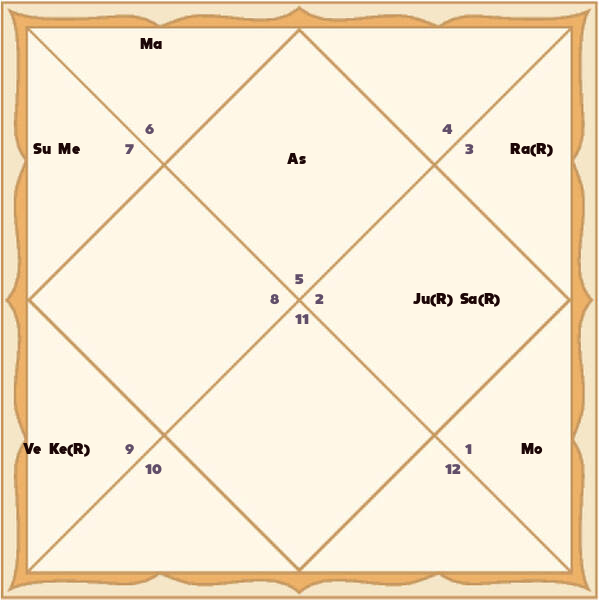
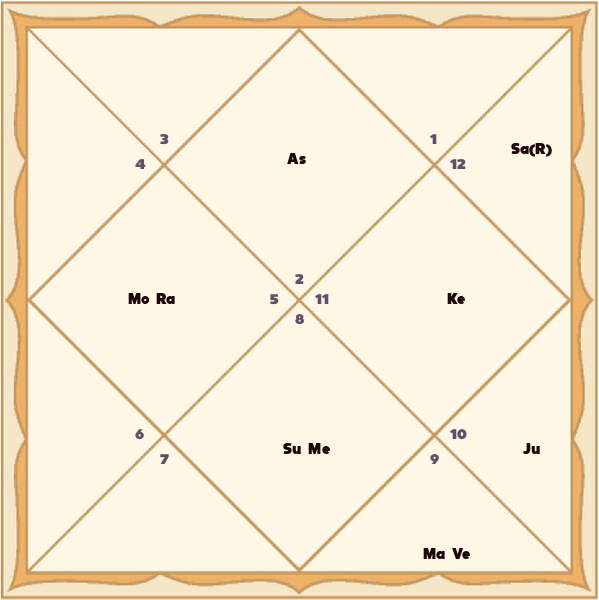
main. vedic_goro_linux

diff --git a/Bot/services/vedic_goro_linux.py b/Bot/services/vedic_goro_linux.py
@@ -15,6 +15,10 @@ from selenium.webdriver.chrome.service import Service
 from Bot.entity.NatalChart import ElementNatalChart
 from Bot.entity.models import Date
 
+
+from Bot.Data.config import bot
+import asyncio
+
 logger = logging.getLogger("__name__")
 
 
@@ -30,17 +34,17 @@ class VedicGoro:
                      "Водолей", "Рыбы"]
         self.coordinates = {
             1: {"sign": (295, 270), "planet": (300, 150)},
-            2: {"sign": (145, 120), "planet": (155, 35)},
-            3: {"sign": (125, 140), "planet": (60, 140)},
+            2: {"sign": (160, 130), "planet": (155, 35)},
+            3: {"sign": (135, 155), "planet": (60, 140)},
             4: {"sign": (270, 290), "planet": (155, 290)},
-            5: {"sign": (125, 440), "planet": (60, 440)},
-            6: {"sign": (145, 460), "planet": (155, 545)},
+            5: {"sign": (135, 425), "planet": (60, 440)},
+            6: {"sign": (160, 450), "planet": (155, 545)},
             7: {"sign": (295, 310), "planet": (310, 440)},
-            8: {"sign": (445, 460), "planet": (450, 545)},
-            9: {"sign": (465, 440), "planet": (535, 440)},
+            8: {"sign": (430, 450), "planet": (450, 545)},
+            9: {"sign": (450, 425), "planet": (535, 440)},
             10: {"sign": (315, 290), "planet": (460, 290)},
-            11: {"sign": (465, 140), "planet": (535, 140)},
-            12: {"sign": (441.5, 120), "planet": (450, 35)}}
+            11: {"sign": (450, 155), "planet": (535, 140)},
+            12: {"sign": (430, 130), "planet": (450, 35)}}
         self.path_font = 'Bot/Data/Sonic.ttf'
         self.planets_eng = {
             "Асцендент": "As",
@@ -195,14 +199,25 @@ class VedicGoro:
         await self.__screen()
 
 
-if __name__ == "__main__":
-    logging.basicConfig(
-        level=logging.INFO,
-        # filename="log.logging",
-        format=u'%(filename)s:%(lineno)d #%(levelname)-3s [%(asctime)s] - %(message)s',
-        filemode="w",
-        encoding='utf-8')
+async def test():
     client = VedicGoro()
     natal_chart = client.get_natal_chart(city="Стерлитамак", name="Артем",
                                          date=Date(year="1997", month="11", day="22", hour="16", minute="48"))
-    client.get_photo(natal_chart=natal_chart)
+    photo = client.get_photo(natal_chart=natal_chart)
+    await bot.send_photo(
+        chat_id=754513655,
+        photo=photo
+    )
+
+if __name__ == "__main__":
+    # logging.basicConfig(
+    #     level=logging.INFO,
+    #     # filename="log.logging",
+    #     format=u'%(filename)s:%(lineno)d #%(levelname)-3s [%(asctime)s] - %(message)s',
+    #     filemode="w",
+    #     encoding='utf-8')
+    # client = VedicGoro()
+    # natal_chart = client.get_natal_chart(city="Стерлитамак", name="Артем",
+    #                                      date=Date(year="1997", month="11", day="22", hour="16", minute="48"))
+    # client.get_photo(natal_chart=natal_chart)
+    asyncio.run(test())
